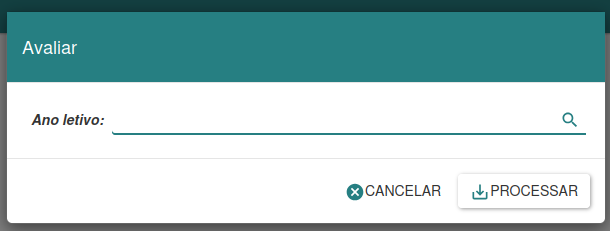
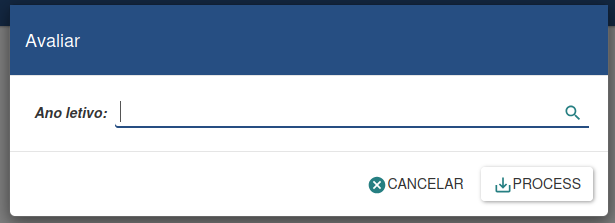
Update info

diff --git a/docs/guia/intro.md b/docs/guia/intro.md
@@ -13,6 +13,10 @@ We hope you find **SAGE Education** motivating and inspiring, and we look forwar
 
 ## ⚙ Modules
 
+### Akademy Dashboard Module
+
+The **Akademy Module Base (Dashboard)** is a complementary module responsible for **centralizing the functionalities** of all **Akademy** modules, offering a simple and practical menu for **Pedagogical Management**, **Administrative and Human Resources Management**, **Financial and Accounting Management**, and **Administration**, in addition to other resources of SAGE Edu.
+
 ### Akademy Party Module
 
 The **Akademy Party (Entity Management)** is a complementary module responsible for **expanding the functionalities** of the **Entity Management** module, offering advanced tools for managing entities within the organization.  
@@ -27,12 +31,19 @@ The **Akademy Class (Class Management)** module is a complementary module respon
 
 It offers advanced tools for **controlling classes, teachers, and students**, allowing for centralized and efficient monitoring of each student's performance and progress.
 
-## Akademy Matriculation Module
+### Akademy Matriculation Module
 
 The **Akademy Matriculation (Enrollment Management)** module is a complementary module responsible for **managing school enrollments**, keeping all information organized and accessible to the institution.
 
 It offers advanced tools for **enrollments, applications, and transfers**, allowing for centralized and efficient monitoring of each student's performance and progress.
 
-## Akademy Matriculation Confirmation Module
+### Akademy Matriculation Confirmation Module
 
 The **Akademy Matriculation Confirmation (Enrollment Confirmation Management)** is a complementary module responsible for **expanding the functionalities** of the **Enrollment Management** module, offering advanced tools for managing enrollment renewals.
+
+
+### Akademy Avaliation Module
+
+The **Akademy Evaluation (Assessment Management)** module is a complementary module responsible for **managing school assessments**, keeping all information organized and accessible to the institution.
+
+It offers advanced tools for **assessment planning, grade posting, and monitoring academic records**, allowing for greater control over student performance and progress.

diff --git a/docs/guia/contributing.md b/docs/guia/contributing.md
@@ -5,11 +5,11 @@
 
 ### 🌍 Software Translation
 
-Currently, **SAGE Education** is only available in **Portuguese** and **English**.
+Currently, **SAGE Education** is only available in **Portuguese**, **English** and **French**.
 
 Expanding to new languages is essential to broaden the project's impact and ensure it can be used in each user's native language.
 
-You can contribute in two ways:
+You can contribute with translations in two ways:
 
 * **Improving existing translations**
 * **Creating a new translation** for your language
@@ -40,11 +40,12 @@ SAGE Edu follows:
 To obtain a copy of the project:
 
 ```bash
-git clone https://github.com/comunidadedosaber/akademy-party
-git clone https://github.com/comunidadedosaber/akademy-company
-git clone https://github.com/comunidadedosaber/akademy-classe
-git clone https://github.com/comunidadedosaber/akademy-matriculation
-git clone https://github.com/comunidadedosaber/akademy-matriculation_confirmation
+git clone https://github.com/zacariasjuliano/akademy-party
+git clone https://github.com/zacariasjuliano/akademy-company
+git clone https://github.com/zacariasjuliano/akademy-classe
+git clone https://github.com/zacariasjuliano/akademy-matriculation
+git clone https://github.com/zacariasjuliano/akademy-matriculation_confirmation
+git clone https://github.com/zacariasjuliano/akademy-dashboard
 ```
 
 ### 🐞 Reporting Bugs

diff --git a/docs/guia/dev.md b/docs/guia/dev.md
@@ -125,11 +125,12 @@ trytond -c trytond.conf
 After the Tryton environment is configured, install the official SAGE Edu modules directly from GitHub:
 
 ```bash
-git clone https://github.com/comunidadedosaber/akademy-party
-git clone https://github.com/comunidadedosaber/akademy-company
-git clone https://github.com/comunidadedosaber/akademy-classe
-git clone https://github.com/comunidadedosaber/akademy-matriculation
-git clone https://github.com/comunidadedosaber/akademy-matriculation_confirmation
+git clone https://github.com/zacariasjuliano/akademy-party
+git clone https://github.com/zacariasjuliano/akademy-company
+git clone https://github.com/zacariasjuliano/akademy-classe
+git clone https://github.com/zacariasjuliano/akademy-matriculation
+git clone https://github.com/zacariasjuliano/akademy-matriculation_confirmation
+git clone https://github.com/zacariasjuliano/akademy-dashboard
 ```
 
 💡 Note: After installing new modules, it is recommended to restart the Tryton server and run trytond-admin again to synchronize the tables.

diff --git a/docs/guia/demo.md b/docs/guia/demo.md
@@ -5,6 +5,7 @@
 We host a public demo server where you can try out SAGE Education with different access profiles:
 
 - **Website:** [comunidadedosaber.ao](https://comunidadedosaber.ao)  
+- **Project:** [sage-edu.comunidadedosaber.ao](https://sage-edu.comunidadedosaber.ao)  
 - **App:** [sage.comunidadedosaber.ao](https://sage.comunidadedosaber.ao) 
 
 
